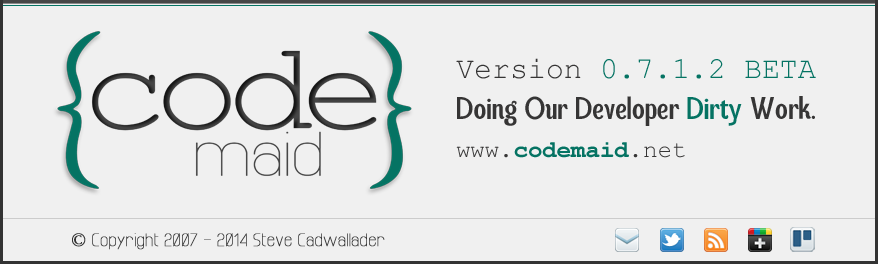
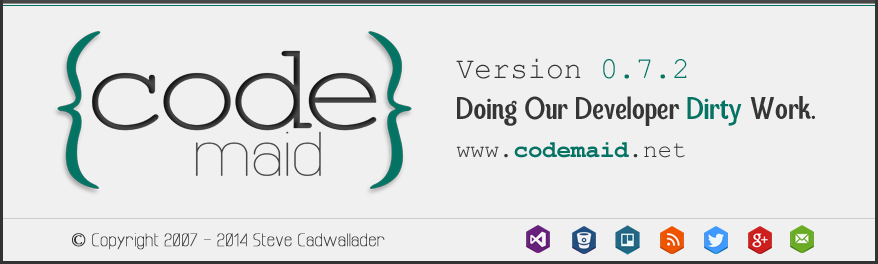
Card 172: Update about image links and images for BitBucket, VSG, etc.

Changed region(s): [[0.5843, 0.8485, 0.9533, 0.9697], [0.7688, 0.2121, 0.9226, 0.303]]

diff --git a/CodeMaid/UI/Dialogs/About/AboutWindow.xaml b/CodeMaid/UI/Dialogs/About/AboutWindow.xaml
@@ -20,17 +20,17 @@
                     <Setter.Value>
                         <ControlTemplate TargetType="{x:Type Button}">
                             <Border Background="Transparent">
-                                <Rectangle x:Name="Rectangle" Margin="-2" Stroke="{StaticResource FCodeMaidGray}"
-                                        StrokeThickness="2" RadiusX="4" RadiusY="4" Visibility="Collapsed">
-                                    <Rectangle.Effect>
-                                        <BlurEffect />
-                                    </Rectangle.Effect>
-                                </Rectangle>
+                                <Path x:Name="Hexagon"
+                                      Data="M12,0 L24,7 24,21 12,28 0,21 0,7, 12,0z"
+                                      Height="28" Width="24"
+                                      Stroke="{StaticResource FCodeMaidGray}"
+                                      StrokeThickness="2"
+                                      Visibility="Collapsed" />
                             </Border>
                             <ControlTemplate.Triggers>
                                 <Trigger Property="IsMouseOver" Value="True">
                                     <Setter Property="Cursor" Value="Hand" />
-                                    <Setter TargetName="Rectangle" Property="Visibility" Value="Visible" />
+                                    <Setter TargetName="Hexagon" Property="Visibility" Value="Visible" />
                                 </Trigger>
                             </ControlTemplate.Triggers>
                         </ControlTemplate>
@@ -65,19 +65,25 @@
         <Button Canvas.Left="456" Canvas.Top="142" Height="16" Width="229" Style="{StaticResource underlineLinkButton}"
                 Click="OnWebsiteLinkClick" ToolTip="Launch CodeMaid's website" />
 
-        <Button Canvas.Left="615" Canvas.Top="228" Height="24" Width="24" Style="{StaticResource iconLinkButton}"
-                Click="OnEmailLinkClick" ToolTip="E-mail CodeMaid" />
+        <Button Canvas.Left="526" Canvas.Top="226" Height="28" Width="24" Style="{StaticResource iconLinkButton}"
+                Click="OnVisualStudioGalleryLinkClick" ToolTip="Download, Reviews - Visual Studio Gallery" />
 
-        <Button Canvas.Left="660" Canvas.Top="228" Height="24" Width="24" Style="{StaticResource iconLinkButton}"
-                Click="OnTwitterLinkClick" ToolTip="View CodeMaid's Twitter feed" />
+        <Button Canvas.Left="572" Canvas.Top="226" Height="28" Width="24" Style="{StaticResource iconLinkButton}"
+                Click="OnBitBucketLinkClick" ToolTip="Source code, Bugs - BitBucket" />
 
-        <Button Canvas.Left="704" Canvas.Top="228" Height="24" Width="24" Style="{StaticResource iconLinkButton}"
-                Click="OnRSSLinkClick" ToolTip="Subscribe to CodeMaid's blog" />
+        <Button Canvas.Left="615" Canvas.Top="226" Height="28" Width="24" Style="{StaticResource iconLinkButton}"
+                Click="OnTrelloLinkClick" ToolTip="Feature backlog - Trello" />
 
-        <Button Canvas.Left="748" Canvas.Top="228" Height="24" Width="24" Style="{StaticResource iconLinkButton}"
-                Click="OnGooglePlusLinkClick" ToolTip="View CodeMaid's Google+ page" />
+        <Button Canvas.Left="660" Canvas.Top="226" Height="28" Width="24" Style="{StaticResource iconLinkButton}"
+                Click="OnRSSLinkClick" ToolTip="Blog RSS" />
 
-        <Button Canvas.Left="790" Canvas.Top="228" Height="24" Width="24" Style="{StaticResource iconLinkButton}"
-                Click="OnTrelloLinkClick" ToolTip="View CodeMaid's Trello boards" />
+        <Button Canvas.Left="704" Canvas.Top="226" Height="28" Width="24" Style="{StaticResource iconLinkButton}"
+                Click="OnTwitterLinkClick" ToolTip="Twitter" />
+
+        <Button Canvas.Left="748" Canvas.Top="226" Height="28" Width="24" Style="{StaticResource iconLinkButton}"
+                Click="OnGooglePlusLinkClick" ToolTip="Google+" />
+
+        <Button Canvas.Left="790" Canvas.Top="226" Height="28" Width="24" Style="{StaticResource iconLinkButton}"
+                Click="OnEmailLinkClick" ToolTip="E-mail" />
     </Canvas>
 </platformUI:DialogWindow>

diff --git a/CodeMaid/UI/Dialogs/About/AboutWindow.xaml.cs b/CodeMaid/UI/Dialogs/About/AboutWindow.xaml.cs
@@ -60,51 +60,27 @@ namespace SteveCadwallader.CodeMaid.UI.Dialogs.About
         }
 
         /// <summary>
-        /// Called when the Email link is clicked.
+        /// Called when the Visual Studio Gallery link is clicked.
         /// </summary>
         /// <param name="sender">The sender.</param>
         /// <param name="e">
         /// The <see cref="System.Windows.RoutedEventArgs" /> instance containing the event data.
         /// </param>
-        private void OnEmailLinkClick(object sender, RoutedEventArgs e)
+        private void OnVisualStudioGalleryLinkClick(object sender, RoutedEventArgs e)
         {
-            LaunchLink(@"mailto:codemaid@gmail.com");
+            LaunchLink(@"http://visualstudiogallery.msdn.microsoft.com/76293c4d-8c16-4f4a-aee6-21f83a571496");
         }
 
         /// <summary>
-        /// Called when the Twitter link is clicked.
+        /// Called when the BitBucket link is clicked.
         /// </summary>
         /// <param name="sender">The sender.</param>
         /// <param name="e">
         /// The <see cref="System.Windows.RoutedEventArgs" /> instance containing the event data.
         /// </param>
-        private void OnTwitterLinkClick(object sender, RoutedEventArgs e)
+        private void OnBitBucketLinkClick(object sender, RoutedEventArgs e)
         {
-            LaunchLink(@"http://twitter.com/codemaid/");
-        }
-
-        /// <summary>
-        /// Called when the RSS link is clicked.
-        /// </summary>
-        /// <param name="sender">The sender.</param>
-        /// <param name="e">
-        /// The <see cref="System.Windows.RoutedEventArgs" /> instance containing the event data.
-        /// </param>
-        private void OnRSSLinkClick(object sender, RoutedEventArgs e)
-        {
-            LaunchLink(@"http://codemaid.net/feed/");
-        }
-
-        /// <summary>
-        /// Called when the Google+ link is clicked.
-        /// </summary>
-        /// <param name="sender">The sender.</param>
-        /// <param name="e">
-        /// The <see cref="System.Windows.RoutedEventArgs" /> instance containing the event data.
-        /// </param>
-        private void OnGooglePlusLinkClick(object sender, RoutedEventArgs e)
-        {
-            LaunchLink(@"https://plus.google.com/+CodemaidNet/");
+            LaunchLink(@"https://bitbucket.org/s_cadwallader/codemaid");
         }
 
         /// <summary>
@@ -120,15 +96,51 @@ namespace SteveCadwallader.CodeMaid.UI.Dialogs.About
         }
 
         /// <summary>
-        /// Called when the BitBucket link is clicked.
+        /// Called when the RSS link is clicked.
         /// </summary>
         /// <param name="sender">The sender.</param>
         /// <param name="e">
         /// The <see cref="System.Windows.RoutedEventArgs" /> instance containing the event data.
         /// </param>
-        private void OnBitBucketLinkClick(object sender, RoutedEventArgs e)
+        private void OnRSSLinkClick(object sender, RoutedEventArgs e)
         {
-            LaunchLink(@"https://bitbucket.org/s_cadwallader/codemaid");
+            LaunchLink(@"http://codemaid.net/feed/");
+        }
+
+        /// <summary>
+        /// Called when the Twitter link is clicked.
+        /// </summary>
+        /// <param name="sender">The sender.</param>
+        /// <param name="e">
+        /// The <see cref="System.Windows.RoutedEventArgs" /> instance containing the event data.
+        /// </param>
+        private void OnTwitterLinkClick(object sender, RoutedEventArgs e)
+        {
+            LaunchLink(@"http://twitter.com/codemaid/");
+        }
+
+        /// <summary>
+        /// Called when the Google+ link is clicked.
+        /// </summary>
+        /// <param name="sender">The sender.</param>
+        /// <param name="e">
+        /// The <see cref="System.Windows.RoutedEventArgs" /> instance containing the event data.
+        /// </param>
+        private void OnGooglePlusLinkClick(object sender, RoutedEventArgs e)
+        {
+            LaunchLink(@"https://plus.google.com/+CodemaidNet/");
+        }
+
+        /// <summary>
+        /// Called when the Email link is clicked.
+        /// </summary>
+        /// <param name="sender">The sender.</param>
+        /// <param name="e">
+        /// The <see cref="System.Windows.RoutedEventArgs" /> instance containing the event data.
+        /// </param>
+        private void OnEmailLinkClick(object sender, RoutedEventArgs e)
+        {
+            LaunchLink(@"mailto:codemaid@gmail.com");
         }
 
         #endregion Event Handlers
